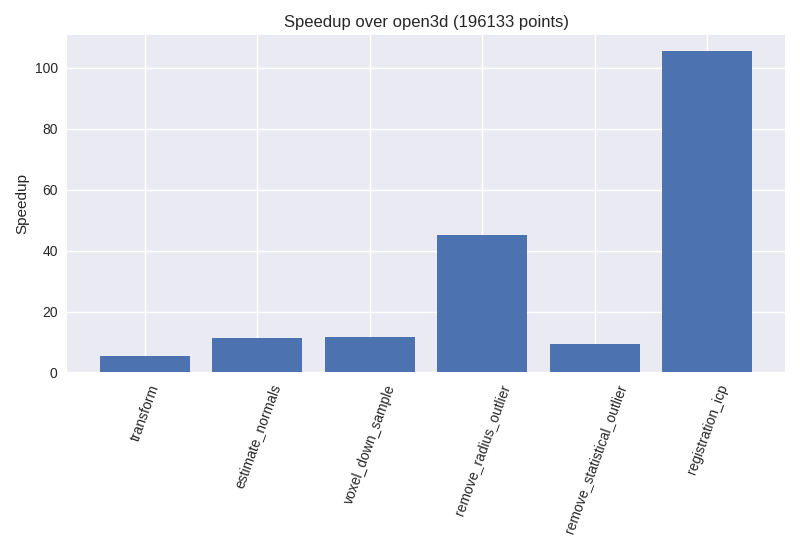
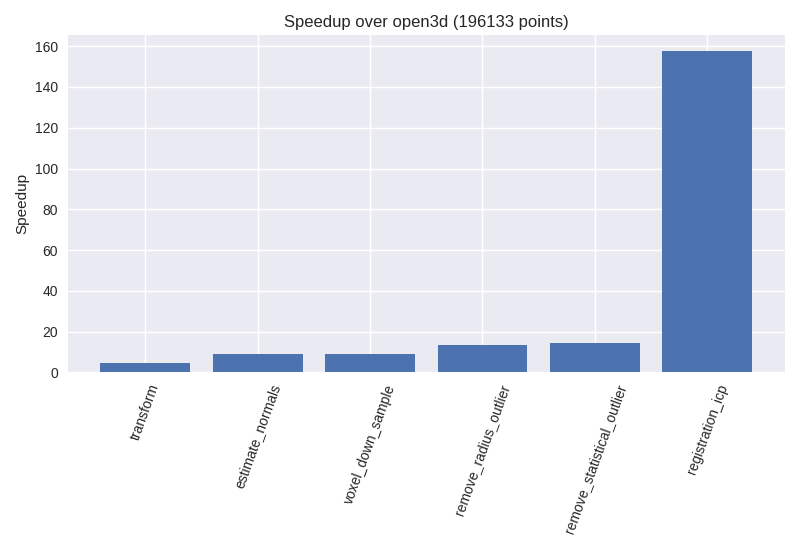
update result

diff --git a/src/python/cupoch_pybind/geometry/pointcloud.cpp b/src/python/cupoch_pybind/geometry/pointcloud.cpp
@@ -83,12 +83,18 @@ void pybind_pointcloud(py::module &m) {
                  "Function to remove none-finite points from the PointCloud",
                  "remove_nan"_a = true, "remove_infinite"_a = true)
             .def("remove_radius_outlier",
-                 &geometry::PointCloud::RemoveRadiusOutliersHost,
+                 [] (const geometry::PointCloud& pcd, size_t nb_points, float search_radius) {
+                      auto res = pcd.RemoveRadiusOutliers(nb_points, search_radius);
+                      return std::make_tuple(std::get<0>(res), wrapper::device_vector_size_t(std::get<1>(res)));
+                 },
                  "Function to remove points that have less than nb_points"
                  " in a given sphere of a given radius",
                  "nb_points"_a, "radius"_a)
             .def("remove_statistical_outlier",
-                 &geometry::PointCloud::RemoveStatisticalOutliersHost,
+                 [] (const geometry::PointCloud& pcd, size_t nb_neighbors, float std_ratio) {
+                      auto res = pcd.RemoveStatisticalOutliers(nb_neighbors, std_ratio);
+                      return std::make_tuple(std::get<0>(res), wrapper::device_vector_size_t(std::get<1>(res)));
+                 },
                  "Function to remove points that are further away from their "
                  "neighbors in average",
                  "nb_neighbors"_a, "std_ratio"_a)
@@ -101,7 +107,11 @@ void pybind_pointcloud(py::module &m) {
                  &geometry::PointCloud::OrientNormalsToAlignWithDirection,
                  "Function to orient the normals of a point cloud",
                  "orientation_reference"_a = Eigen::Vector3f(0.0, 0.0, 1.0))
-            .def("cluster_dbscan", &geometry::PointCloud::ClusterDBSCANHost,
+            .def("cluster_dbscan",
+                 [] (const geometry::PointCloud& pcd, float eps, size_t min_points, bool print_progress) {
+                      auto res = pcd.ClusterDBSCAN(eps, min_points, print_progress);
+                      return wrapper::device_vector_int(res);
+                 },
                  "Cluster PointCloud using the DBSCAN algorithm  Ester et al., "
                  "'A Density-Based Algorithm for Discovering Clusters in Large "
                  "Spatial Databases with Noise', 1996. Returns a list of point "

diff --git a/src/cupoch/utility/range.h b/src/cupoch/utility/range.h
@@ -59,4 +59,59 @@ class repeated_range
     difference_type repeats;
 };
 
+// this example illustrates how to make strided access to a range of values
+// examples:
+//   strided_range([0, 1, 2, 3, 4, 5, 6], 1) -> [0, 1, 2, 3, 4, 5, 6]
+//   strided_range([0, 1, 2, 3, 4, 5, 6], 2) -> [0, 2, 4, 6]
+//   strided_range([0, 1, 2, 3, 4, 5, 6], 3) -> [0, 3, 6]
+//   ...
+
+template <typename Iterator>
+class strided_range
+{
+    public:
+
+    typedef typename thrust::iterator_difference<Iterator>::type difference_type;
+
+    struct stride_functor : public thrust::unary_function<difference_type,difference_type>
+    {
+        difference_type stride;
+
+        stride_functor(difference_type stride)
+            : stride(stride) {}
+
+        __host__ __device__
+        difference_type operator()(const difference_type& i) const
+        { 
+            return stride * i;
+        }
+    };
+
+    typedef typename thrust::counting_iterator<difference_type>                   CountingIterator;
+    typedef typename thrust::transform_iterator<stride_functor, CountingIterator> TransformIterator;
+    typedef typename thrust::permutation_iterator<Iterator,TransformIterator>     PermutationIterator;
+
+    // type of the strided_range iterator
+    typedef PermutationIterator iterator;
+
+    // construct strided_range for the range [first,last)
+    strided_range(Iterator first, Iterator last, difference_type stride)
+        : first(first), last(last), stride(stride) {}
+   
+    iterator begin(void) const
+    {
+        return PermutationIterator(first, TransformIterator(CountingIterator(0), stride_functor(stride)));
+    }
+
+    iterator end(void) const
+    {
+        return begin() + ((last - first) + (stride - 1)) / stride;
+    }
+    
+    protected:
+    Iterator first;
+    Iterator last;
+    difference_type stride;
+};
+
 }

diff --git a/src/cupoch/geometry/pointcloud.h b/src/cupoch/geometry/pointcloud.h
@@ -88,16 +88,8 @@ public:
     std::tuple<std::shared_ptr<PointCloud>, utility::device_vector<size_t>>
     RemoveRadiusOutliers(size_t nb_points, float search_radius) const;
 
-    std::tuple<std::shared_ptr<PointCloud>, thrust::host_vector<size_t>>
-    RemoveRadiusOutliersHost(size_t nb_points, float search_radius) const;
-
-
     std::tuple<std::shared_ptr<PointCloud>, utility::device_vector<size_t>>
     RemoveStatisticalOutliers(size_t nb_neighbors, float std_ratio) const;
-
-    std::tuple<std::shared_ptr<PointCloud>, thrust::host_vector<size_t>>
-    RemoveStatisticalOutliersHost(size_t nb_neighbors, float std_ratio) const;
-
 
     /// Function to crop pointcloud into output pointcloud
     /// All points with coordinates outside the bounding box \param bbox are
@@ -124,9 +116,6 @@ public:
     utility::device_vector<int> ClusterDBSCAN(float eps,
                                              size_t min_points,
                                              bool print_progress = false) const;
-    thrust::host_vector<int> ClusterDBSCANHost(float eps,
-                                               size_t min_points,
-                                               bool print_progress = false) const;
 
     /// Factory function to create a pointcloud from a depth image and a camera
     /// model (PointCloudFactory.cpp)

diff --git a/src/python/cupoch_pybind/cupoch_pybind.h b/src/python/cupoch_pybind/cupoch_pybind.h
@@ -45,6 +45,8 @@ inline void bind_device_vector_wrapper(py::module &m) {
     dvf.def("cpu", &cupoch::wrapper::device_vector_wrapper<float>::cpu);
     py::class_<cupoch::wrapper::device_vector_wrapper<int>> dvi(m, "device_vector_int");
     dvi.def("cpu", &cupoch::wrapper::device_vector_wrapper<int>::cpu);
+    py::class_<cupoch::wrapper::device_vector_wrapper<size_t>> dvs(m, "device_vector_size_t");
+    dvs.def("cpu", &cupoch::wrapper::device_vector_wrapper<size_t>::cpu);
 }
 
 }  // namespace detail

diff --git a/src/python/cupoch_pybind/device_vector_wrapper.h b/src/python/cupoch_pybind/device_vector_wrapper.h
@@ -31,6 +31,7 @@ using device_vector_vector2f = device_vector_wrapper<Eigen::Vector2f>;
 using device_vector_vector3i = device_vector_wrapper<Eigen::Vector3i>;
 using device_vector_vector2i = device_vector_wrapper<Eigen::Vector2i>;
 using device_vector_int = device_vector_wrapper<int>;
+using device_vector_size_t = device_vector_wrapper<size_t>;
 using device_vector_float = device_vector_wrapper<float>;
 
 template<typename Type>

diff --git a/examples/cpp/registration.cpp b/examples/cpp/registration.cpp
@@ -2,6 +2,7 @@
 
 int main(int argc, char *argv[]) {
     using namespace cupoch;
+    utility::InitializeCupoch();
 
     utility::SetVerbosityLevel(utility::VerbosityLevel::Debug);
     if (argc < 3) {utility::LogInfo("Need two arguments of point cloud file name."); return 0;}

diff --git a/examples/cpp/image.cpp b/examples/cpp/image.cpp
@@ -2,6 +2,7 @@
 
 int main(int argc, char **argv) {
     using namespace cupoch;
+    utility::InitializeCupoch();
 
     utility::SetVerbosityLevel(utility::VerbosityLevel::Debug);
     if (argc < 2) {utility::LogInfo("Need an argument of image file name."); return 0;}

diff --git a/examples/cpp/trianglemesh.cpp b/examples/cpp/trianglemesh.cpp
@@ -2,6 +2,7 @@
 
 int main(int argc, char **argv) {
     using namespace cupoch;
+    utility::InitializeCupoch();
 
     utility::SetVerbosityLevel(utility::VerbosityLevel::Debug);
     if (argc < 2) {utility::LogInfo("Need an argument of mesh file name."); return 0;}

diff --git a/examples/cpp/pointcloud.cpp b/examples/cpp/pointcloud.cpp
@@ -2,6 +2,7 @@
 
 int main(int argc, char *argv[]) {
     using namespace cupoch;
+    utility::InitializeCupoch();
 
     utility::SetVerbosityLevel(utility::VerbosityLevel::Debug);
 
